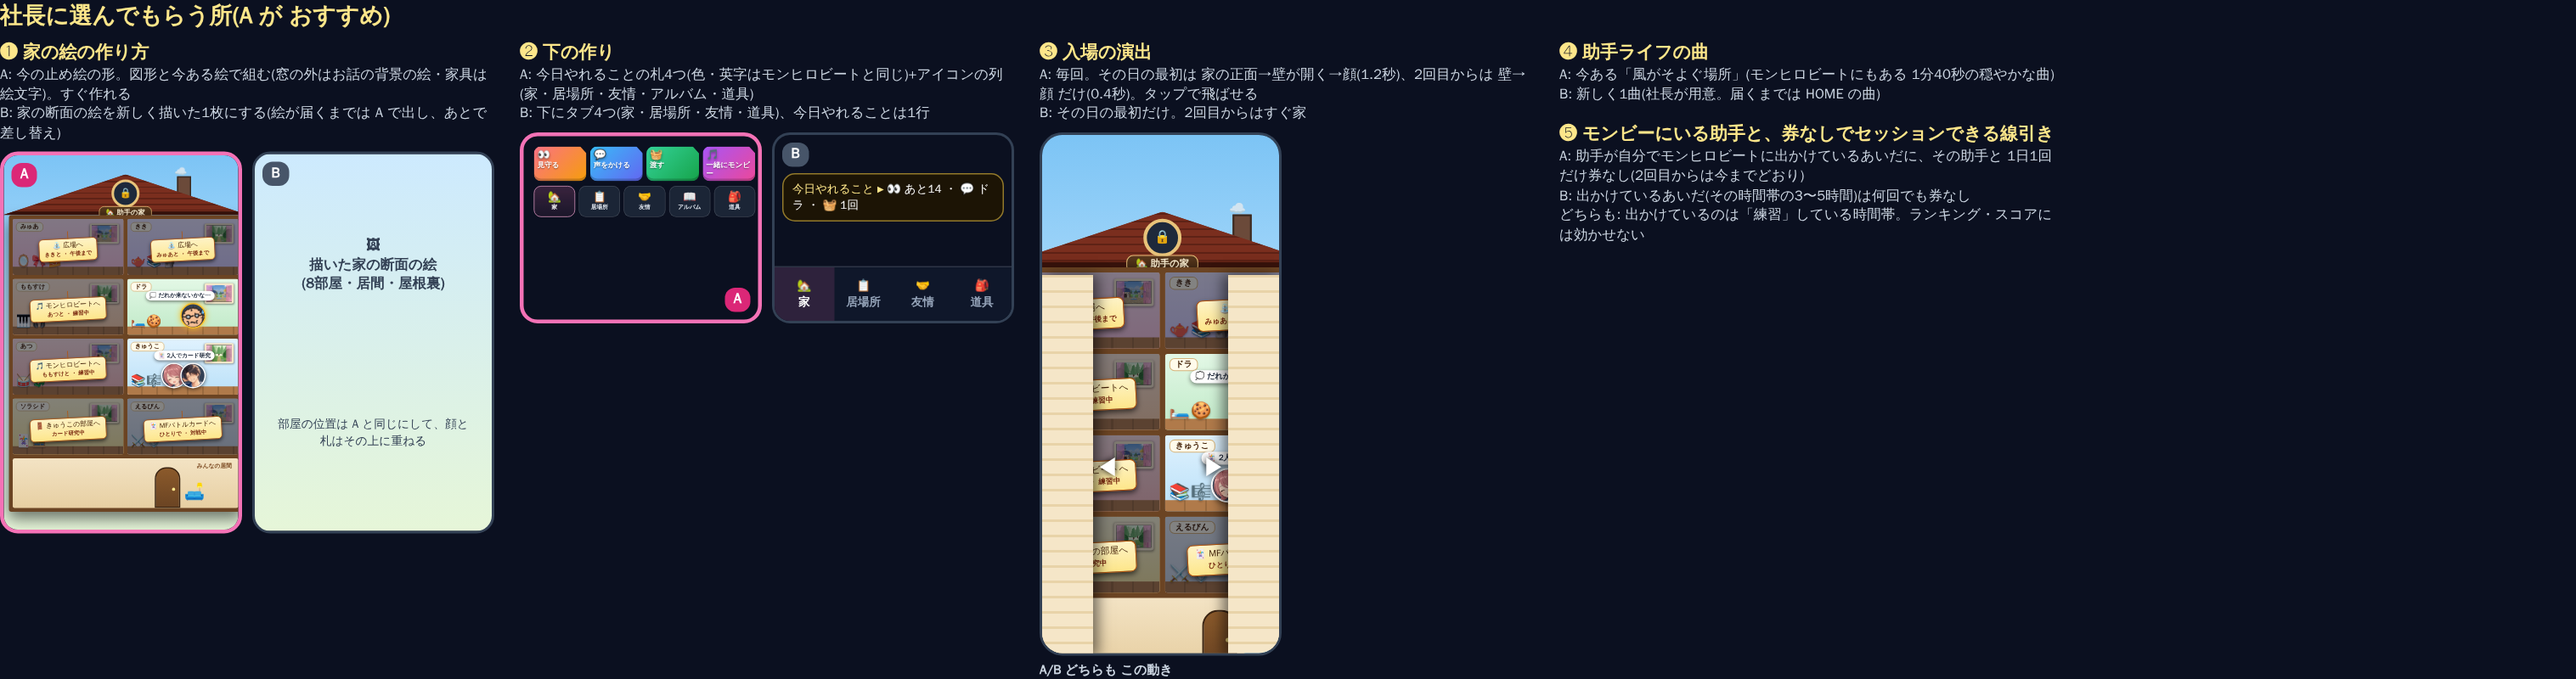
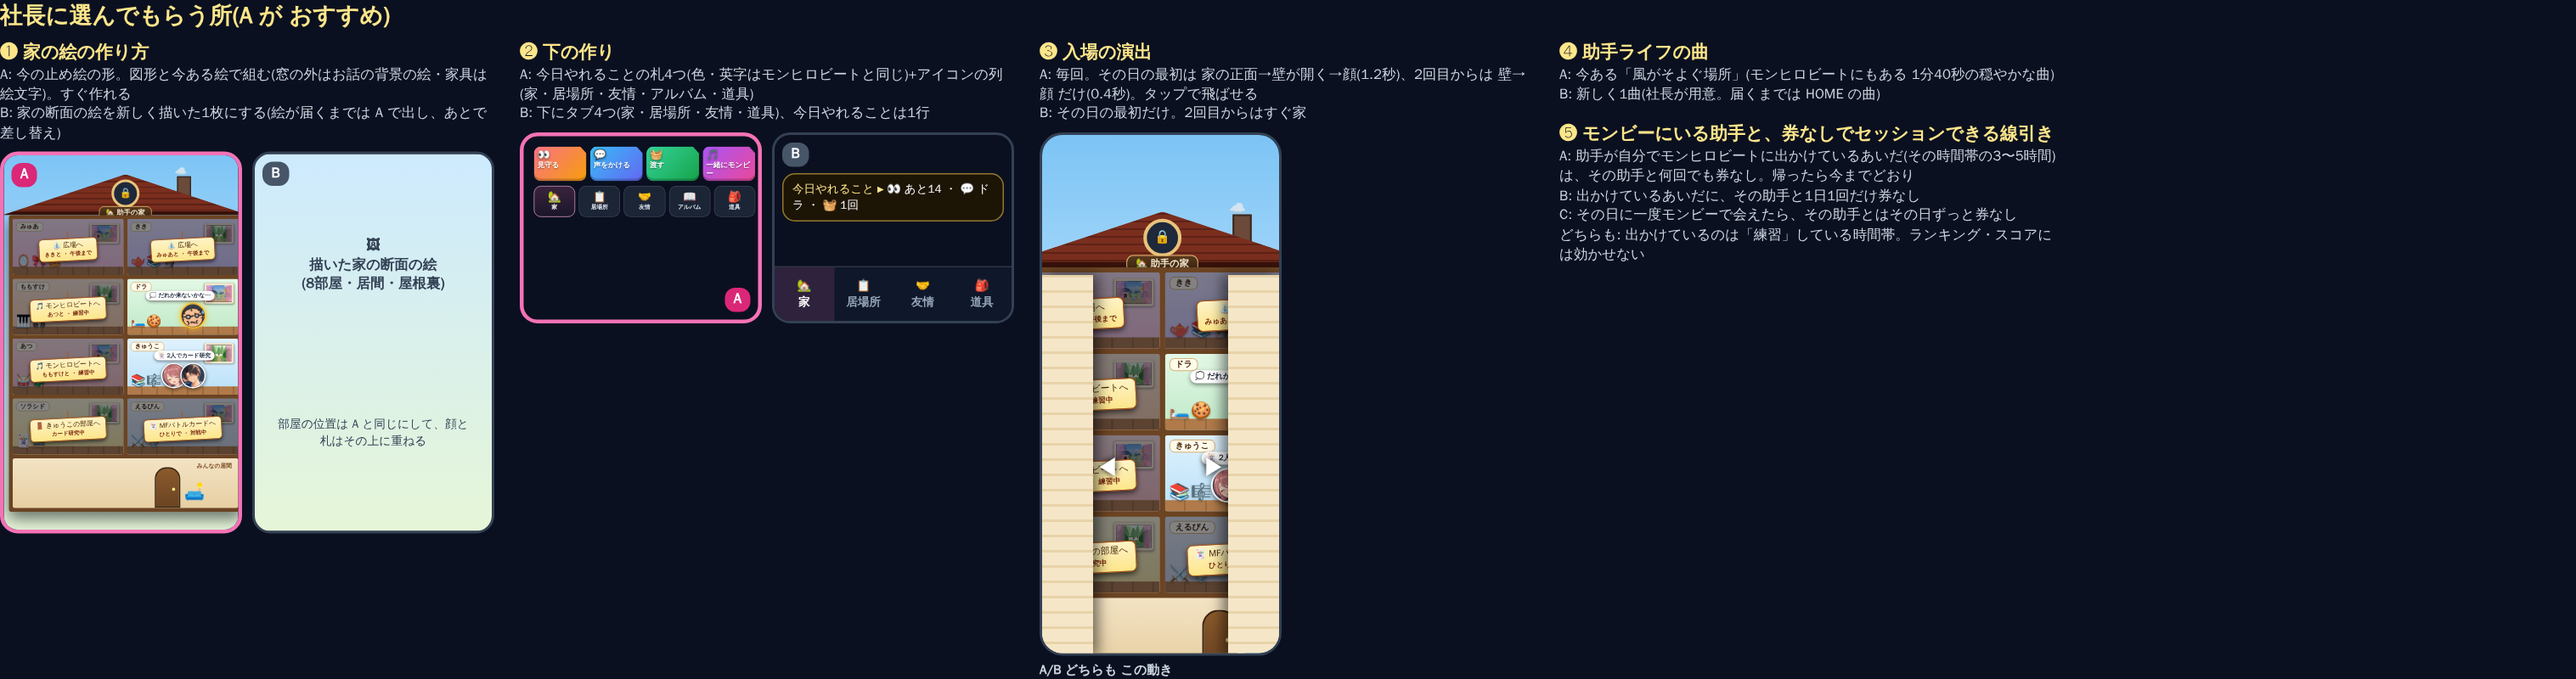
助手ライフ 家の案: 券なしセッションの線引きをビート部とそろえた(A/B/C)
Claude-Session: https://claude.ai/code/session_0113GBaFJSugNXVQ5WBRBKNA

Changed region(s): [[0.5889, 0.25, 0.8058, 0.375], [0.7438, 0.2188, 0.8058, 0.25]]

diff --git a/docs/progress/assistant-peer/ux/life-house-mock.html b/docs/progress/assistant-peer/ux/life-house-mock.html
@@ -336,7 +336,7 @@ const sheetOut=`<div class="sheet" style="height:470px;padding:12px 14px">
   <div class="srow"><span class="k">🎵 セッション</span><b>セッションLv15</b><small style="font-size:9.5px;color:#cbd5e1;margin-left:auto">一緒に 21回</small></div>
   <div class="tl" style="padding:6px 0 4px"><div style="font-size:10px;color:#cbd5e1;font-weight:900">今日あったこと</div><p><b>朝</b>ドラと広場を散歩</p><p><b>13:40</b>セッションで あつとデュオ → 🎵Lv15 に上がった</p></div>
  </div>
- <div style="margin-top:6px;border-radius:14px;padding:11px 0;text-align:center;font-size:14px;font-weight:900;background:linear-gradient(135deg,#a855f7,#ec4899);box-shadow:0 0 18px #ec489988">🎵 会いに行く(セッション券なし)<small style="display:block;font-size:9.5px;font-weight:800;opacity:.9">モンビーにいるあいだ ・ ももすけと今日あと1回</small></div>
+ <div style="margin-top:6px;border-radius:14px;padding:11px 0;text-align:center;font-size:14px;font-weight:900;background:linear-gradient(135deg,#a855f7,#ec4899);box-shadow:0 0 18px #ec489988">🎵 会いに行く(セッション券なし)<small style="display:block;font-size:9.5px;font-weight:800;opacity:.9">モンビーにいるあいだ(14時まで)は回数を使わない</small></div>
  <div class="btn4" style="margin-top:6px"><span style="background:linear-gradient(135deg,#38bdf8,#6366f1)">👀 見守りに行く</span><span style="background:linear-gradient(135deg,#34d399,#16a34a)">🧺 渡す</span></div>
 </div>`;
 H+=`<div><p class="cap">③ 部屋を押す(いるとき)<small>その助手の いまどこで誰と・気持ち・仲良し度・友情Lv・セッションLv・今日あったこと。部屋にいるので その場で 話す/ようすを見る/渡す/一緒にモンビー</small></p><div class="ph">
@@ -422,7 +422,7 @@ H+=`<section id="ab"><p class="cap w" style="font-size:18px;width:1300px">社長
 <div><p class="cap">❸ 入場の演出<small>A: 毎回。その日の最初は 家の正面→壁が開く→顔(1.2秒)、2回目からは 壁→顔 だけ(0.4秒)。タップで飛ばせる<br>B: その日の最初だけ。2回目からはすぐ家</small></p>
  ${mini(entB,'A/B どちらも この動き')}</div>
 <div><p class="cap">❹ 助手ライフの曲<small>A: 今ある「風がそよぐ場所」(モンヒロビートにもある 1分40秒の穏やかな曲)<br>B: 新しく1曲(社長が用意。届くまでは HOME の曲)</small></p>
- <p class="cap" style="margin-top:14px">❺ モンビーにいる助手と、券なしでセッションできる線引き<small>A: 助手が自分でモンヒロビートに出かけているあいだに、その助手と 1日1回だけ券なし(2回目からは今までどおり)<br>B: 出かけているあいだ(その時間帯の3〜5時間)は何回でも券なし<br>どちらも: 出かけているのは「練習」している時間帯。ランキング・スコアには効かせない</small></p></div>
+ <p class="cap" style="margin-top:14px">❺ モンビーにいる助手と、券なしでセッションできる線引き<small>A: 助手が自分でモンヒロビートに出かけているあいだ(その時間帯の3〜5時間)は、その助手と何回でも券なし。帰ったら今までどおり<br>B: 出かけているあいだに、その助手と1日1回だけ券なし<br>C: その日に一度モンビーで会えたら、その助手とはその日ずっと券なし<br>どちらも: 出かけているのは「練習」している時間帯。ランキング・スコアには効かせない</small></p></div>
 </div></section>`;
 document.getElementById('root').innerHTML=H;
 

diff --git a/docs/progress/assistant-peer/LIFE-HOUSE-PLAN.md b/docs/progress/assistant-peer/LIFE-HOUSE-PLAN.md
@@ -84,7 +84,7 @@
 | 友情Lv が同じ値 | セッションの結果に「友情Lv +3(Lv4 いい友だち)」(段の名前は assistantPeerStageName)。部屋の友情Lv と同じ値 | 1(マモリ側) |
 | 券なしで会いに行く | 助手が自分でモンビーにいる(その時間帯に「練習」している)ときだけ。線引きは ❺ | 2 |
 
-- つなぎ口: マモリ側 `rhythmAssistSessionOnLive(fn)`(1曲ごとの知らせ)・`rhythmAssistSessionInvite(id, opts)`/こちら側 `assistantLifeAtBeat(id)`・`assistantLifeBeatFree(id)`・`assistantLifeBeatFreeUse(id)`(演奏が始まったときに使う。やめたら減らない)
+- つなぎ口: マモリ側 `rhythmAssistSessionOnLive(fn)`(1曲ごとの知らせ)・`rhythmAssistSessionInvite(id, opts)`・部屋に呼んだ時点でモンビーにいれば控えに `paid:'visit'`(無料枠も券も減らさない・呼ぶシートに「🎵 いまモンビーにいる・回数なし」)/こちら側 `assistantLifeAtBeat(id)`・`assistantLifeBeatIds()`(時間帯は 0・5・10・14・18・21時で入れかわる)
 - プレイヤーのスコア・ランキング・セーブには効かせない。値の呼び名は友情Lv/仲良し度/セッションLv
 
 ## 7. 先々のこと(家のどこに入るか・⑦)
@@ -108,7 +108,7 @@
 | ❷ 下の作り | 今日やれることの札4つ(モンヒロビートと同じ色と英字)+アイコンの列5つ | 下にタブ4つ(家・居場所・友情・道具)、今日やれることは1行 |
 | ❸ 入場の演出 | 毎回。その日の最初は1.2秒、2回目からは0.4秒。タップで飛ばせる | その日の最初だけ |
 | ❹ 助手ライフの曲 | 今ある「風がそよぐ場所」(モンヒロビートにもある穏やかな曲) | 新しく1曲(社長が用意。届くまでは HOME の曲) |
-| ❺ 券なしセッションの線引き | 出かけているあいだに、その助手と1日1回だけ券なし | 出かけているあいだ(3〜5時間)は何回でも券なし |
+| ❺ 券なしセッションの線引き | 出かけているあいだ(3〜5時間)は、その助手と何回でも券なし。帰ったら今までどおり | 出かけているあいだに1日1回だけ券なし(C: その日に一度会えたら、その日ずっと券なし) |
 
 ## 9. 段階1で作るもの(社長の OK のあと)
 
